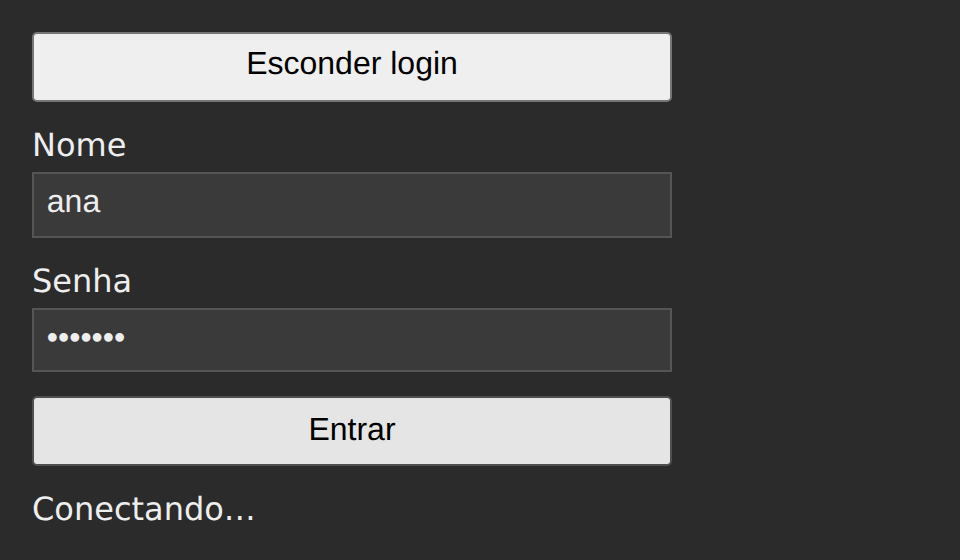
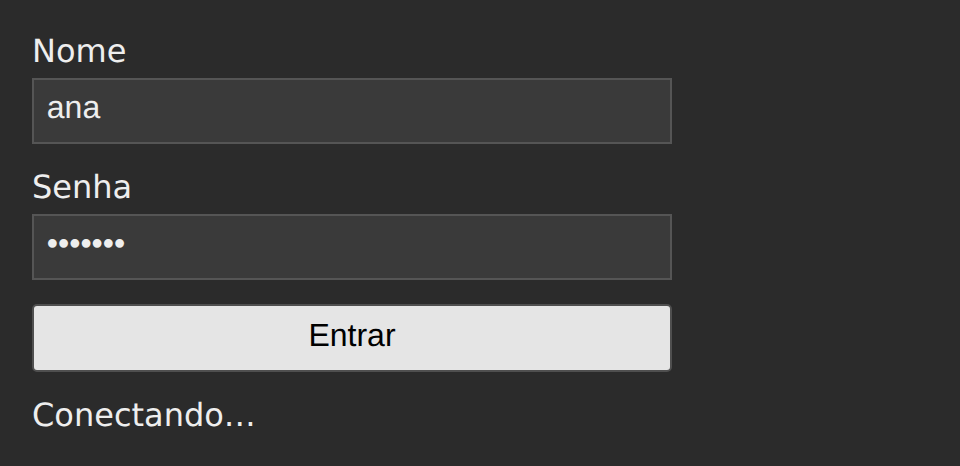
Hospeda o Login no Web Component pela página comum
O Login no Web Component ainda traz a página com o botão "Esconder
login"/"Mostrar login", um segundo elemento que só existe para o teste
de conformidade tirar o painel da página, e por isso falha nas
verificações de "Limpeza ao sair da tela", que desde "Confere a limpeza
ao sair da tela pela rota da página, sem botão" saem e voltam pela rota
do hash de implementacoes/pagina.ts (ADR 0043).

A página sai, e fica o par montar e desmontar no idioma da tecnologia: o
createElement e o append do painel no contêiner, e o remove(), que
dispara o disconnectedCallback. O index.html passa a trazer o
contêiner #raiz com a classe do layout, que a página montava. A limpeza
ao sair da tela, no disconnectedCallback, não muda: é o que se compara.

Conferido com npm run conformidade -- login-com-quarentena/web-component
(23 verificações ok) e com as capturas regeradas para essa
implementação: as 4 cenas saem sem o botão, e ficam diferentes das
outras tecnologias do Login até o commit de cada uma.

Changed region(s): [[0.0312, 0.03, 0.7188, 0.5408], [0.0312, 0.5708, 0.7188, 0.9313]]

diff --git a/implementacoes/login-com-quarentena/web-component/src/main.ts b/implementacoes/login-com-quarentena/web-component/src/main.ts
@@ -7,6 +7,7 @@ import {
   podeEntrar,
   tempoDeSessao,
 } from "../../dominio";
+import { hospedar } from "../../../pagina";
 import "../../estilo.css";
 
 const modelo = /* HTML */ `
@@ -104,35 +105,10 @@ class PainelDeLogin extends HTMLElement {
   }
 }
 
-// A página: o botão que tira o painel da página e o põe de volta.
-class LoginComQuarentena extends HTMLElement {
-  private painel?: PainelDeLogin;
-
-  connectedCallback() {
-    this.innerHTML = /* HTML */ `
-      <main class="login">
-        <button type="button" class="alternar">Esconder login</button>
-      </main>
-    `;
-    const principal = this.querySelector("main")!;
-    const alternar = this.querySelector<HTMLButtonElement>(".alternar")!;
-    const mostrar = () => {
-      this.painel = document.createElement("painel-de-login") as PainelDeLogin;
-      principal.append(this.painel);
-      alternar.textContent = "Esconder login";
-    };
-    alternar.addEventListener("click", () => {
-      if (this.painel) {
-        this.painel.remove();
-        this.painel = undefined;
-        alternar.textContent = "Mostrar login";
-      } else {
-        mostrar();
-      }
-    });
-    mostrar();
-  }
-}
-
 customElements.define("painel-de-login", PainelDeLogin);
-customElements.define("login-com-quarentena", LoginComQuarentena);
+
+hospedar((conteiner) => {
+  const painel = document.createElement("painel-de-login");
+  conteiner.append(painel);
+  return () => painel.remove();
+});

diff --git a/implementacoes/login-com-quarentena/web-component/index.html b/implementacoes/login-com-quarentena/web-component/index.html
@@ -6,7 +6,7 @@
     <title>Login com quarentena com Web Component</title>
   </head>
   <body>
-    <login-com-quarentena></login-com-quarentena>
+    <main id="raiz" class="login"></main>
     <script type="module" src="/src/main.ts"></script>
   </body>
 </html>
